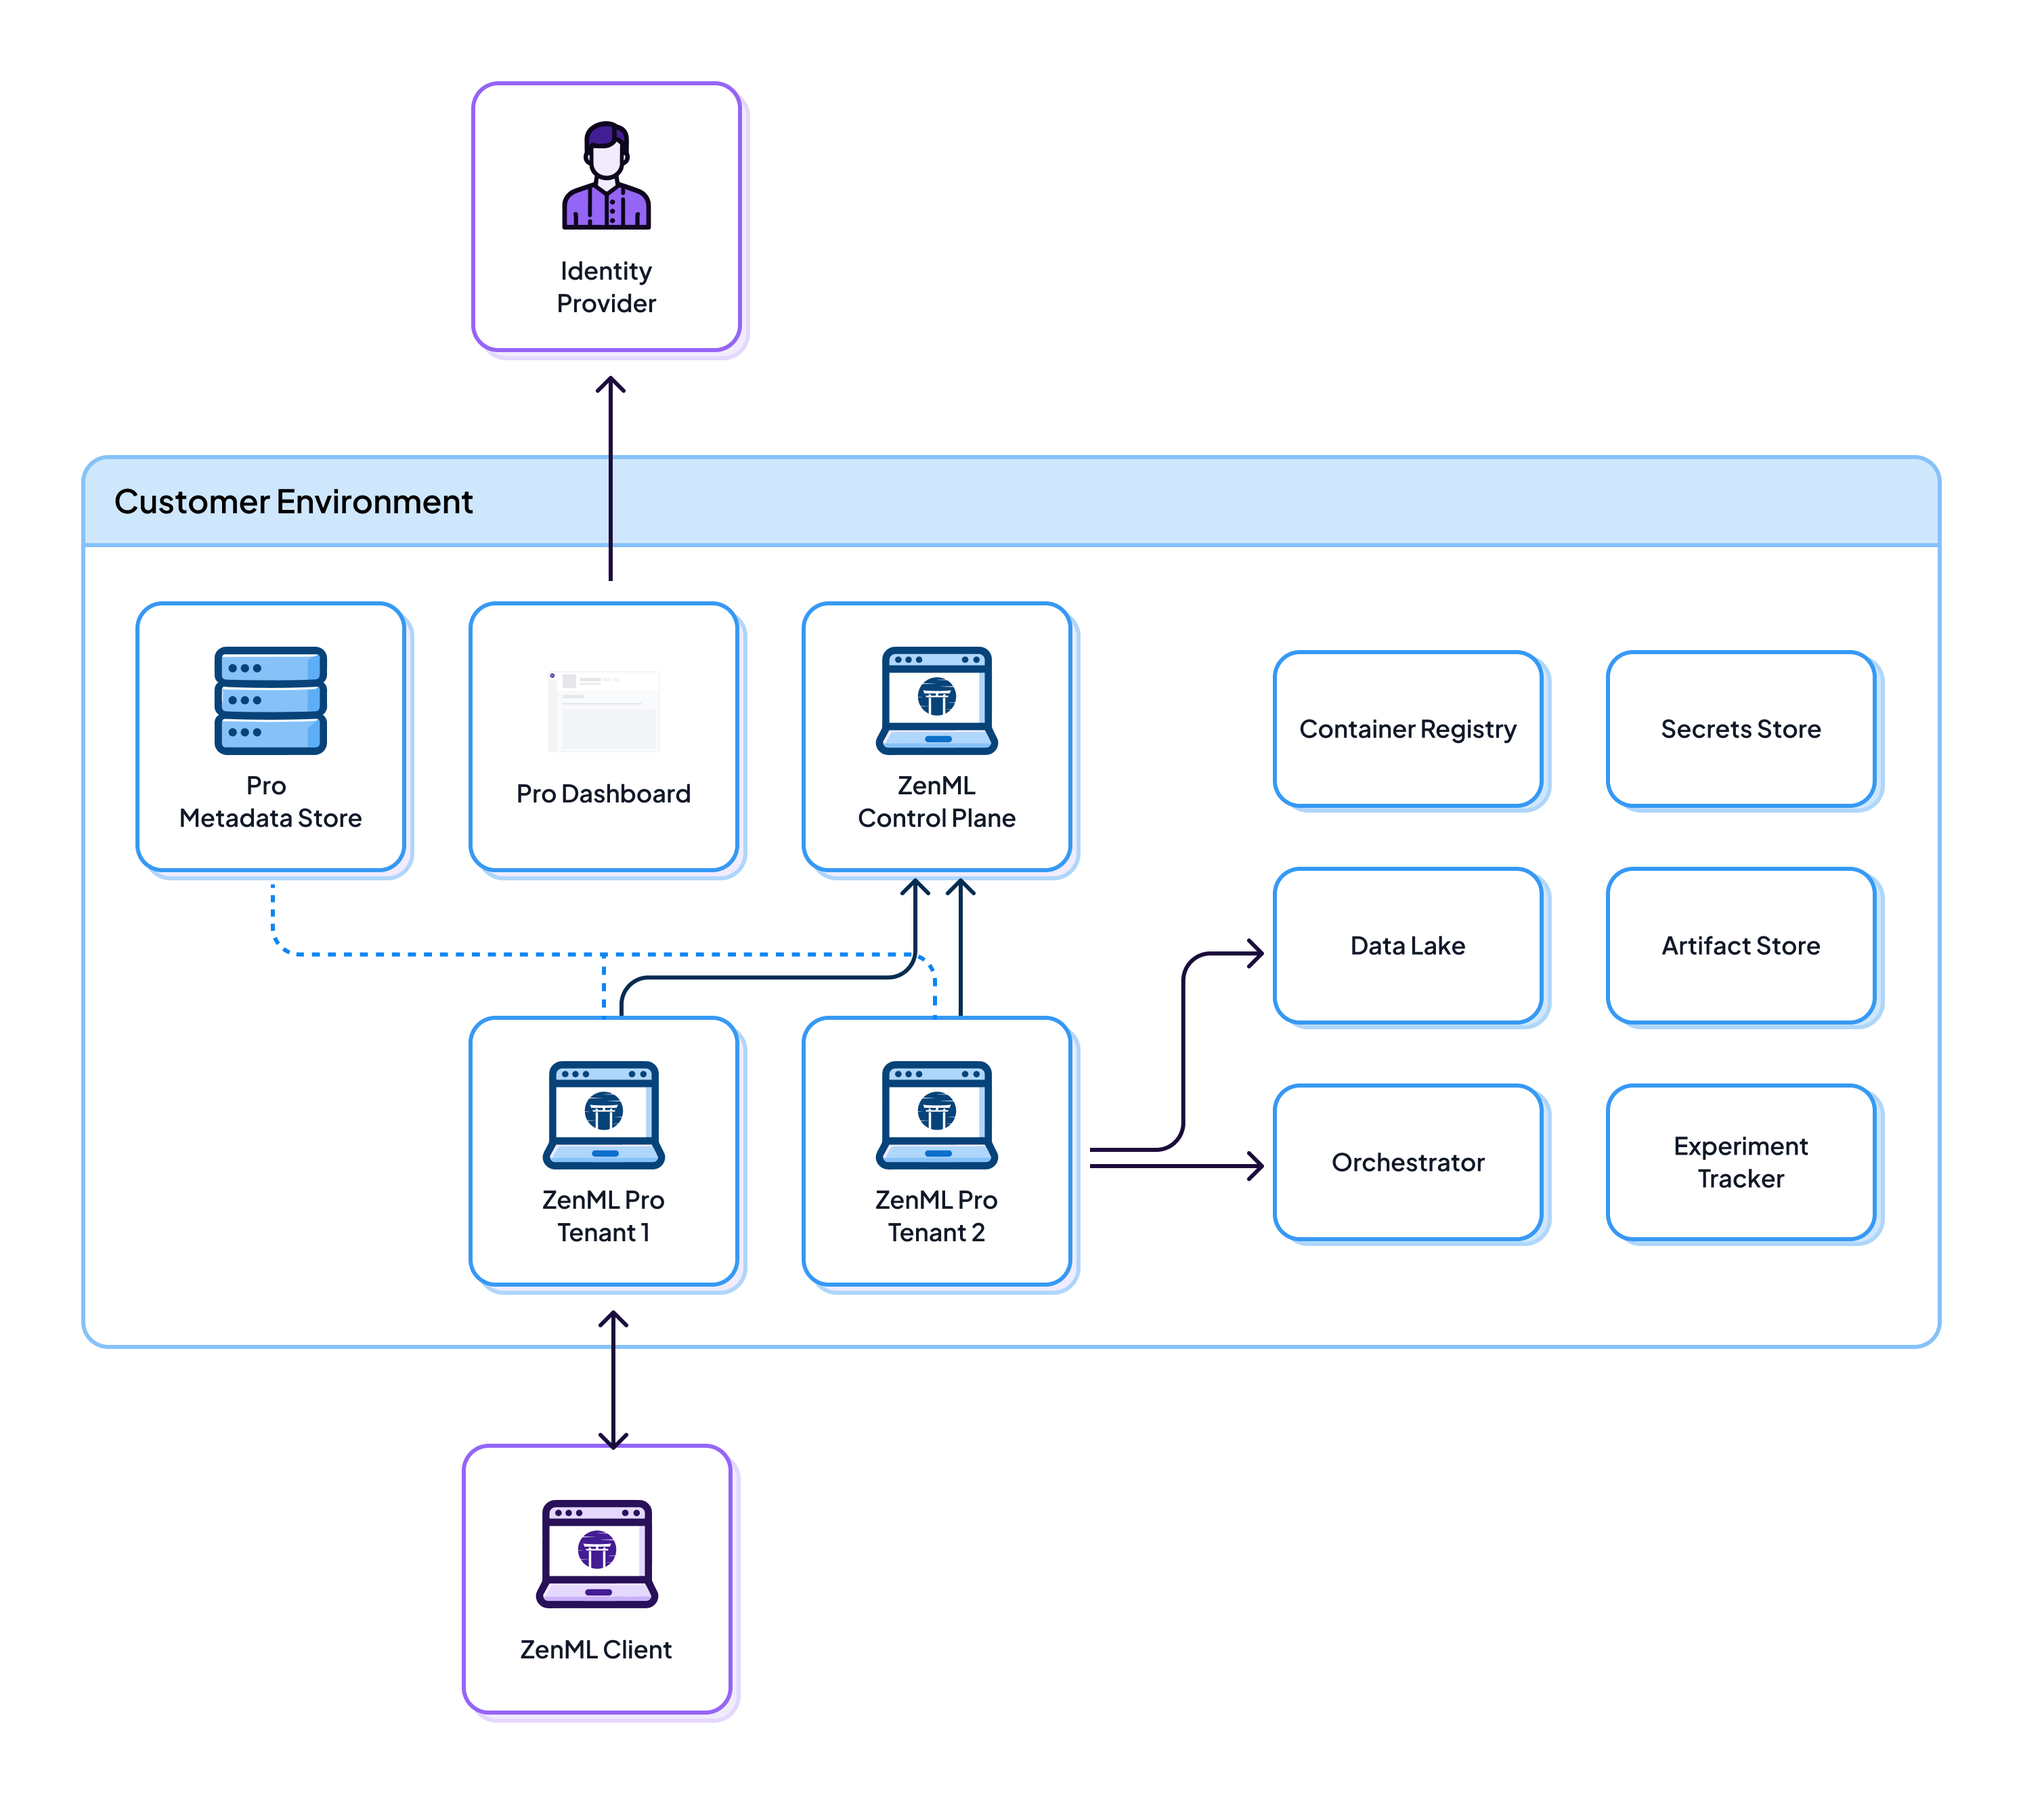
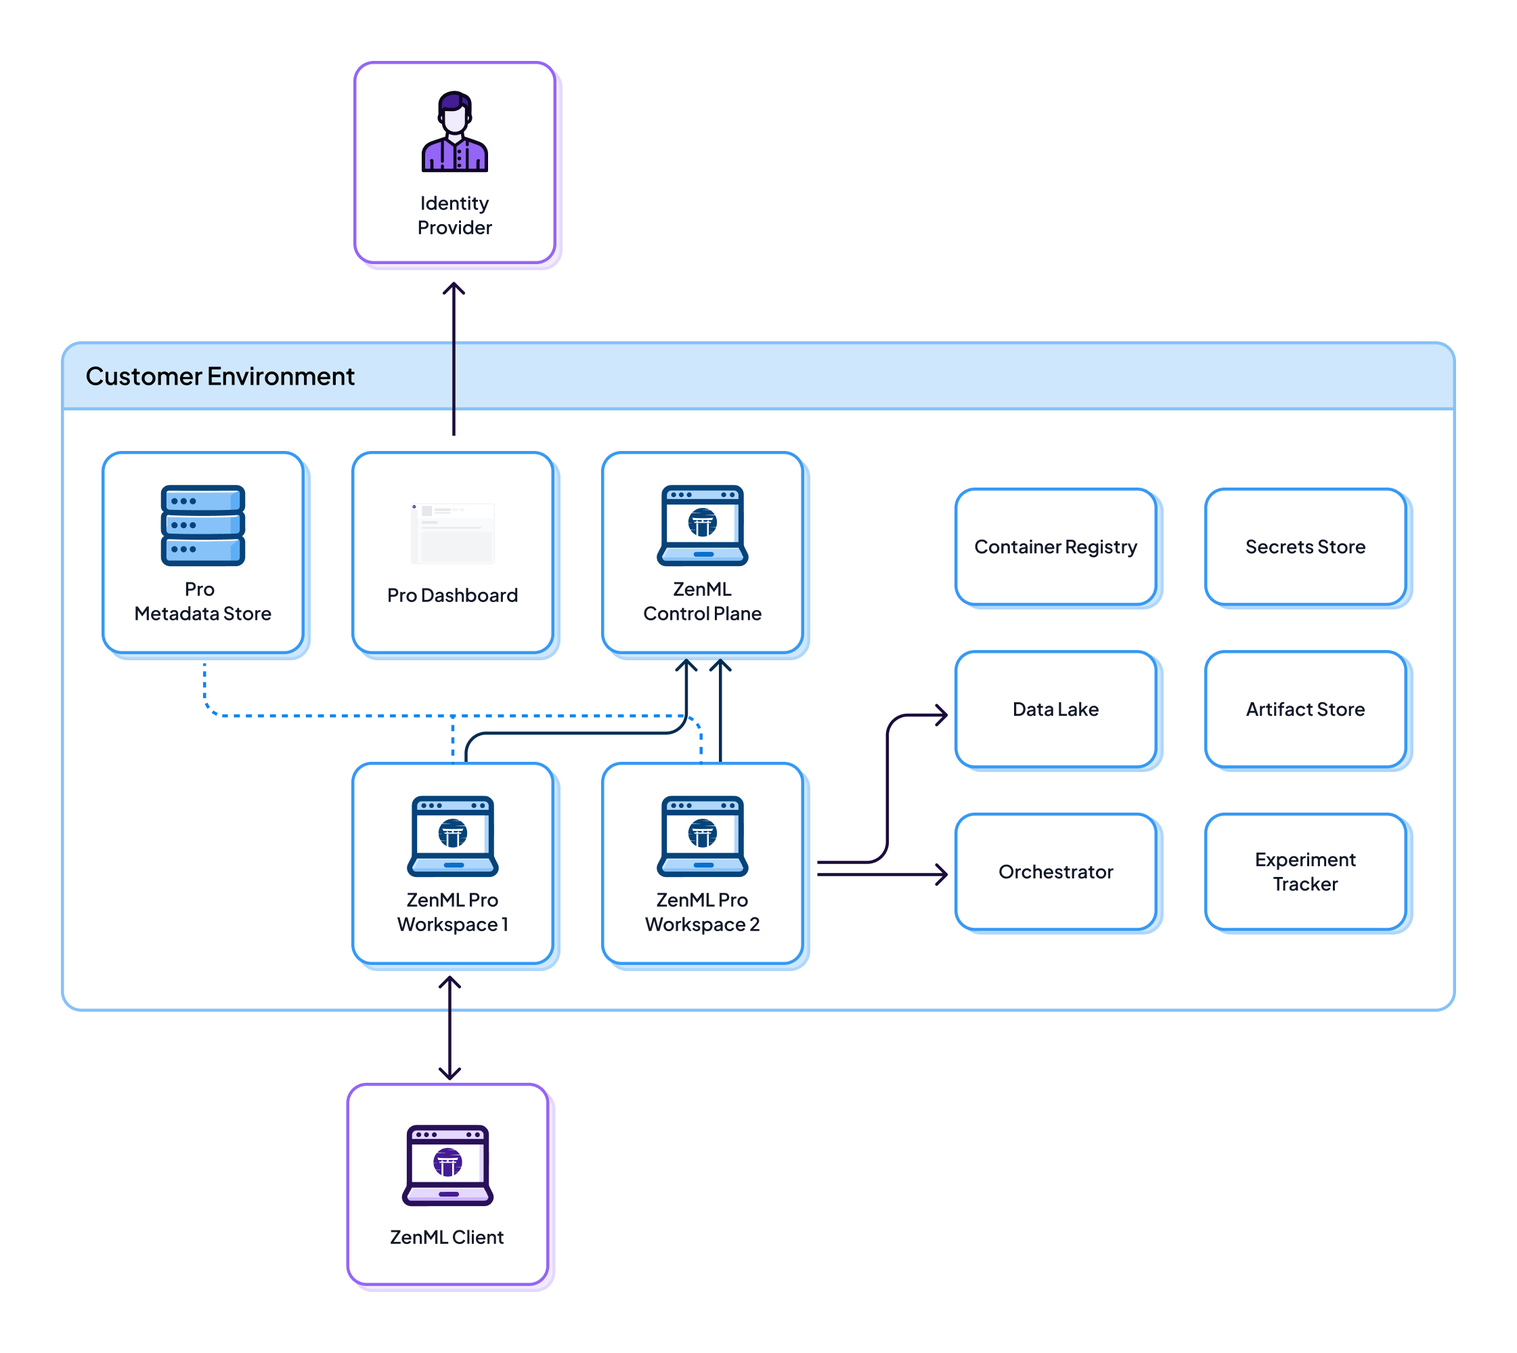
Docs for hybrid deployment scenario (#3666)
* Initial draft for new docs on deployment scenarios

* Added Data implications

* Improved mlflow model deployer docs

* Fixed typos

* Optimised images with calibre/image-actions

* Update docs/book/getting-started/system-architectures.md

* Update docs/book/getting-started/system-architectures.md

* Update docs/book/getting-started/system-architectures.md

* Removed custom secret store section

---------

Changed region(s): [[0.2811, 0.6827, 0.3124, 0.8068], [0.4373, 0.6517, 0.4998, 0.7137], [0.2811, 0.2172, 0.3124, 0.3103]]

diff --git a/docs/book/getting-started/system-architectures.md b/docs/book/getting-started/system-architectures.md
@@ -77,10 +77,6 @@ The advantage of this setup is that it is a fully-managed service, and is very e
 
 </details>
 
-We also offer a hybrid SaaS option where customer secrets are stored on the customer side. In this case, the customer connects their own secret store directly to the ZenML server that is managed by us. All ZenML secrets used by running pipelines to access infrastructure services and resources are stored in the customer secret store. This allows users to use [service connectors](https://docs.zenml.io/concepts/service_connectors) and the [secrets API](../how-to/secrets/secrets.md) to authenticate ZenML pipelines and the ZenML Pro to third-party services and infrastructure while ensuring that credentials are always stored on the customer side.
-
-![ZenML Pro SaaS deployment with Customer secret store](../.gitbook/assets/cloud_architecture_scenario_1_1.png)
-
 <details>
 
 <summary>Detailed Architecture Diagram for SaaS deployment with custom secret store configuration</summary>
@@ -88,6 +84,29 @@ We also offer a hybrid SaaS option where customer secrets are stored on the cust
 <img src="../.gitbook/assets/cloud_architecture_saas_detailed_2.png" alt="ZenML Pro Full SaaS deployment with customer secret store" data-size="original">
 
 </details>
+
+### ZenML Pro Hybrid SaaS
+
+![ZenML Pro self-hosted deployment](../.gitbook/assets/cloud_architecture_scenario_1_2.png)
+
+The partially self-hosted architecture offers a balanced approach that combines the benefits of cloud-hosted control with on-premises data sovereignty. In this configuration, while the ZenML Pro control plane remains hosted by ZenML (handling user management, authentication, RBAC and global workspace coordination), all other components - including services, data, and secrets - are deployed within your own cloud infrastructure.
+
+This hybrid model is particularly well-suited for organizations with:
+* A centralized MLOps or Platform team responsible for standardizing ML practices
+* Multiple business units or teams that require autonomy over their data and infrastructure
+* Strict security requirements where workspaces must operate behind VPN/corporate firewalls
+* Compliance requirements that mandate keeping sensitive data and ML artifact metadata within company infrastructure
+* Need for customization of workspace configurations while maintaining centralized governance
+
+The key advantages of this setup include:
+* Simplified user management through the ZenML-hosted control plane
+* Complete data sovereignty - sensitive data and ML artifacts remain within your infrastructure
+* Secure networking - workspaces communicate through outbound-only connections via VPN/private networks
+* Ability to customize and configure workspaces according to specific team needs
+* Reduced operational overhead compared to fully self-hosted deployments
+* Reduced maintenance burden - all control plane updates and maintenance are handled by ZenML
+This architecture strikes a balance between convenience and control, making it a popular choice for enterprises looking to standardize their MLOps practices while maintaining sovereignty.
+
 
 ### ZenML Pro Self-Hosted Architecture
 
@@ -107,3 +126,13 @@ cloud. This is meant for customers who require completely air-gapped deployments
 Are you interested in ZenML Pro? [Sign up](https://cloud.zenml.io/?utm_source=docs\&utm_medium=referral_link\&utm_campaign=cloud_promotion\&utm_content=signup_link) and get access with a free 14-day trial now!
 
 <figure><img src="https://static.scarf.sh/a.png?x-pxid=f0b4f458-0a54-4fcd-aa95-d5ee424815bc" alt="ZenML Scarf"><figcaption></figcaption></figure>
+
+
+## Data Implications Across Deployment Scenarios
+
+| Deployment Scenario | Data Location | Data Movement | Data Access | Data Isolation |
+|---------------------|---------------|---------------|-------------|----------------|
+| **ZenML OSS (Self-hosted)** | All data remains on customer infrastructure: both ML metadata in OSS Metadata Store and actual ML data artifacts in customer Artifact Store | Data stays within customer boundary; moves between pipeline steps via the Orchestrator | Accessible only through customer infrastructure; no ZenML-managed components have access | Complete data isolation from ZenML-managed services |
+| **ZenML Pro SaaS** | ML metadata in ZenML-hosted DB; Actual ML data artifacts in customer Artifact Store; Secrets in ZenML-managed Secret Store | Metadata flows to ZenML Pro Control Plane; ML data artifacts stay on customer infrastructure; ZenML services access customer infrastructure using stored credentials | ZenML Pro has access to the customer secrets that are explicitly stored; Workspace optionally needs read access to artifact store for dashboard display; No actual ML data moves to ZenML infrastructure unless explicitly shared | Only metadata and credentials are stored on ZenML infrastructure; actual ML data remains isolated on customer infrastructure |
+| **ZenML Pro Hybrid SaaS** | Control Plane on ZenML infrastructure; Workspace, DB, Secret Store, Orchestrator, and Artifact Store on customer infrastructure | Only authentication/authorization data flows to ZenML; All ML data and metadata stays on customer infrastructure | ZenML Control Plane has limited access to user management data; No access to actual ML data or metadata; Customer maintains all data access controls | Strong data isolation with only authentication events crossing boundary. Allows securing access via VPN/private networks. |
+| **ZenML Pro Self-Hosted** | All components run on customer infrastructure | All data movement contained within customer infrastructure boundary | No external access to any data; completely air-gapped operation possible | Complete data isolation; ZenML has no access to any customer data |\n\n## Key Data Security Insights\n\n1. **Artifact Storage:** In all scenarios, the actual ML data artifacts (datasets, models, etc.) remain on customer infrastructure in the customer-controlled Artifact Store.\n\n2. **Metadata Storage:** The metadata (pipeline configurations, run information, metrics) is either stored in ZenML-managed databases (SaaS options) or customer-managed databases (self-hosted options).\n\n3. **Secret Management:** Credentials can be managed by ZenML (standard SaaS) or by the customer (hybrid SaaS or self-hosted), providing flexibility based on security requirements.\n\n4. **Data Access Patterns:**\n   - The ZenML Workspace frontend requires read access to the Artifact Store to display artifacts in the dashboard\n   - The Orchestrator requires read/write access to the Artifact Store to execute pipelines\n   - Control Plane DB contains only users, roles, and workspace configuration information\n\n5. **Data Isolation:** Even in the fully-managed SaaS scenario, the actual ML data never leaves customer infrastructure unless explicitly configured to do so. Only metadata about runs, pipelines, etc. is stored in ZenML-managed systems.\n\nThis design ensures that even when using ZenML-managed services, customers maintain control over their sensitive ML data while benefiting from ZenML's orchestration and management capabilities.

diff --git a/docs/book/component-guide/model-deployers/mlflow.md b/docs/book/component-guide/model-deployers/mlflow.md
@@ -7,7 +7,7 @@ description: Deploying your models locally with MLflow.
 The MLflow Model Deployer is one of the available flavors of the [Model Deployer](./) stack component. Provided with the MLflow integration it can be used to deploy and manage [MLflow models](https://www.mlflow.org/docs/latest/python_api/mlflow.deployments.html) on a local running MLflow server.
 
 {% hint style="warning" %}
-The MLflow Model Deployer is not yet available for use in production. This is a work in progress and will be available soon. At the moment it is only available for use in a local development environment.
+The MLflow Model Deployer is only meant for deploying models in development settings, for production model deployment we recommend tools like [BentoML](./bentoml.md) or [Seldon](./seldon.md).
 {% endhint %}
 
 ## When to use it?
